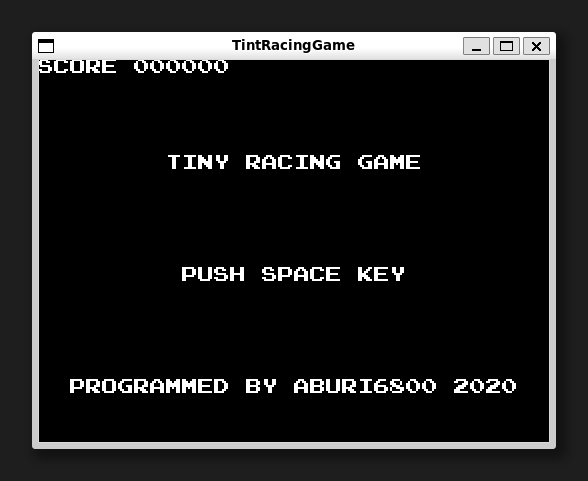
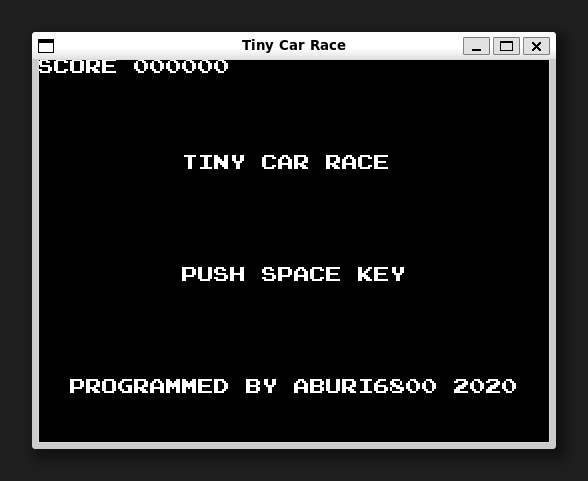
corrected title

Changed region(s): [[0.3367, 0.3119, 0.7041, 0.3742], [0.398, 0.0624, 0.6122, 0.1247], [0.2755, 0.3119, 0.3061, 0.343]]

diff --git a/racing.py b/racing.py
@@ -302,7 +302,7 @@ def drawScreen():
 	# 文字描画
 	if gameStatus == GAMESTATUS_TITLE:
 		canvas.create_rectangle(0, 0, gPos(VRM_WIDTH), gPos(VRM_HEIGHT), fill = "Black")
-		writeText(8, 6, "TINY RACING GAME", "TEXT1")
+		writeText(9, 6, "TINY CAR RACE", "TEXT1")
 		writeText(2, 20, "PROGRAMMED BY ABURI6800 2020", "TEXT1")
 		if gameTime < 25:
 			writeText(9, 13, "PUSH SPACE KEY", "TEXT1")
@@ -402,7 +402,7 @@ def main():
 # Windowを生成
 root = tkinter.Tk()
 root.geometry(str(gPos(VRM_WIDTH) - 8) + "x" + str(gPos(VRM_HEIGHT) - 8))
-root.title("TintRacingGame")
+root.title("Tiny Car Race")
 root.bind("<KeyPress>", pressKey)
 root.bind("<KeyRelease>", releaseKey)
 
